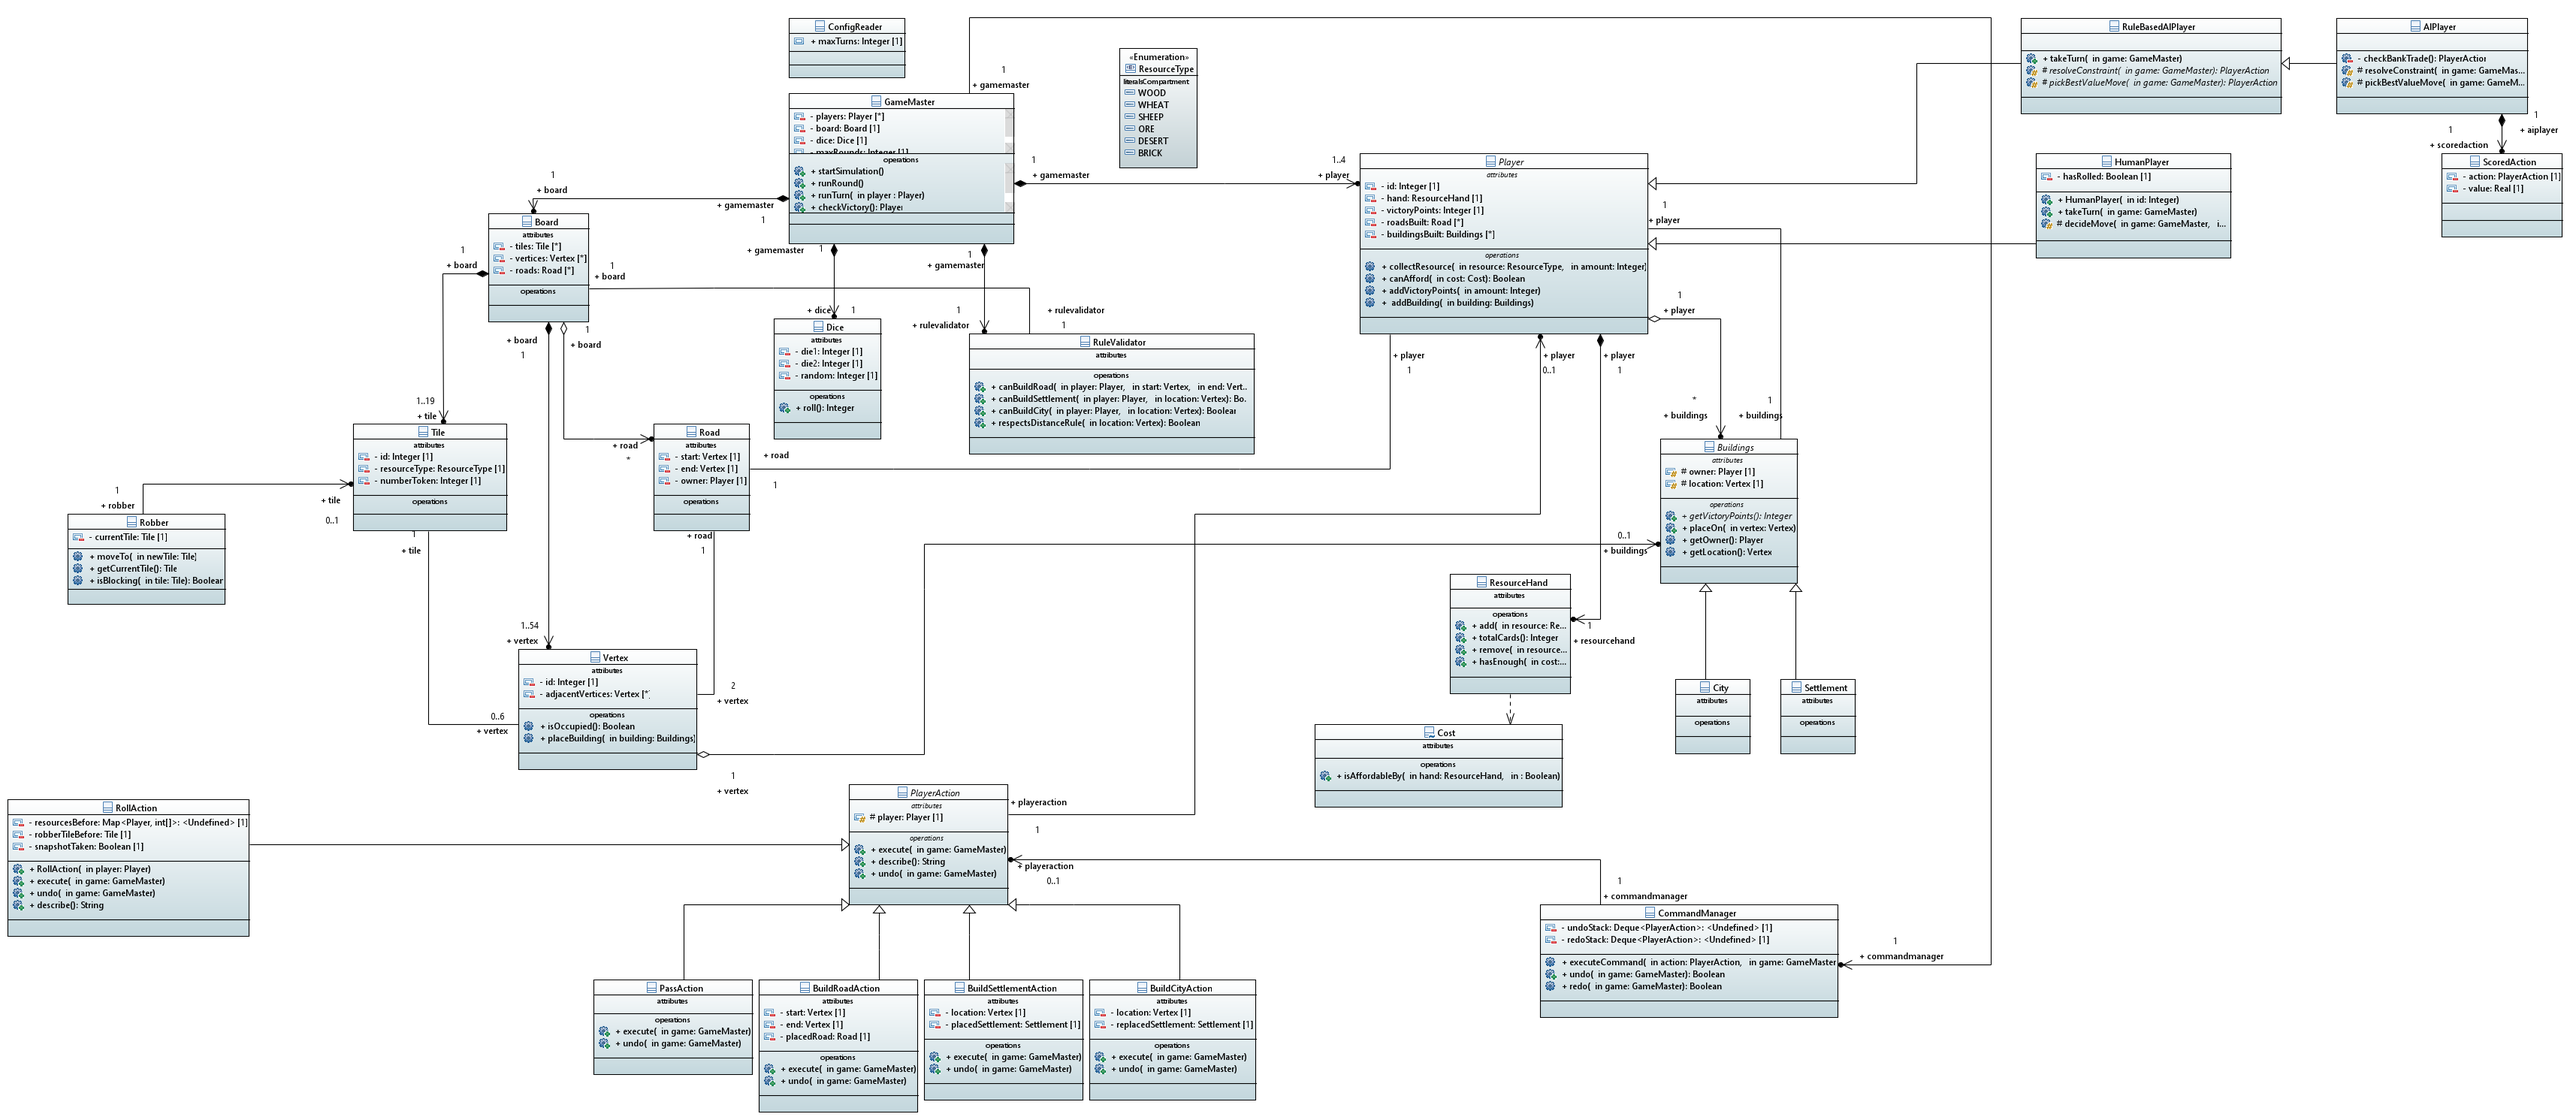
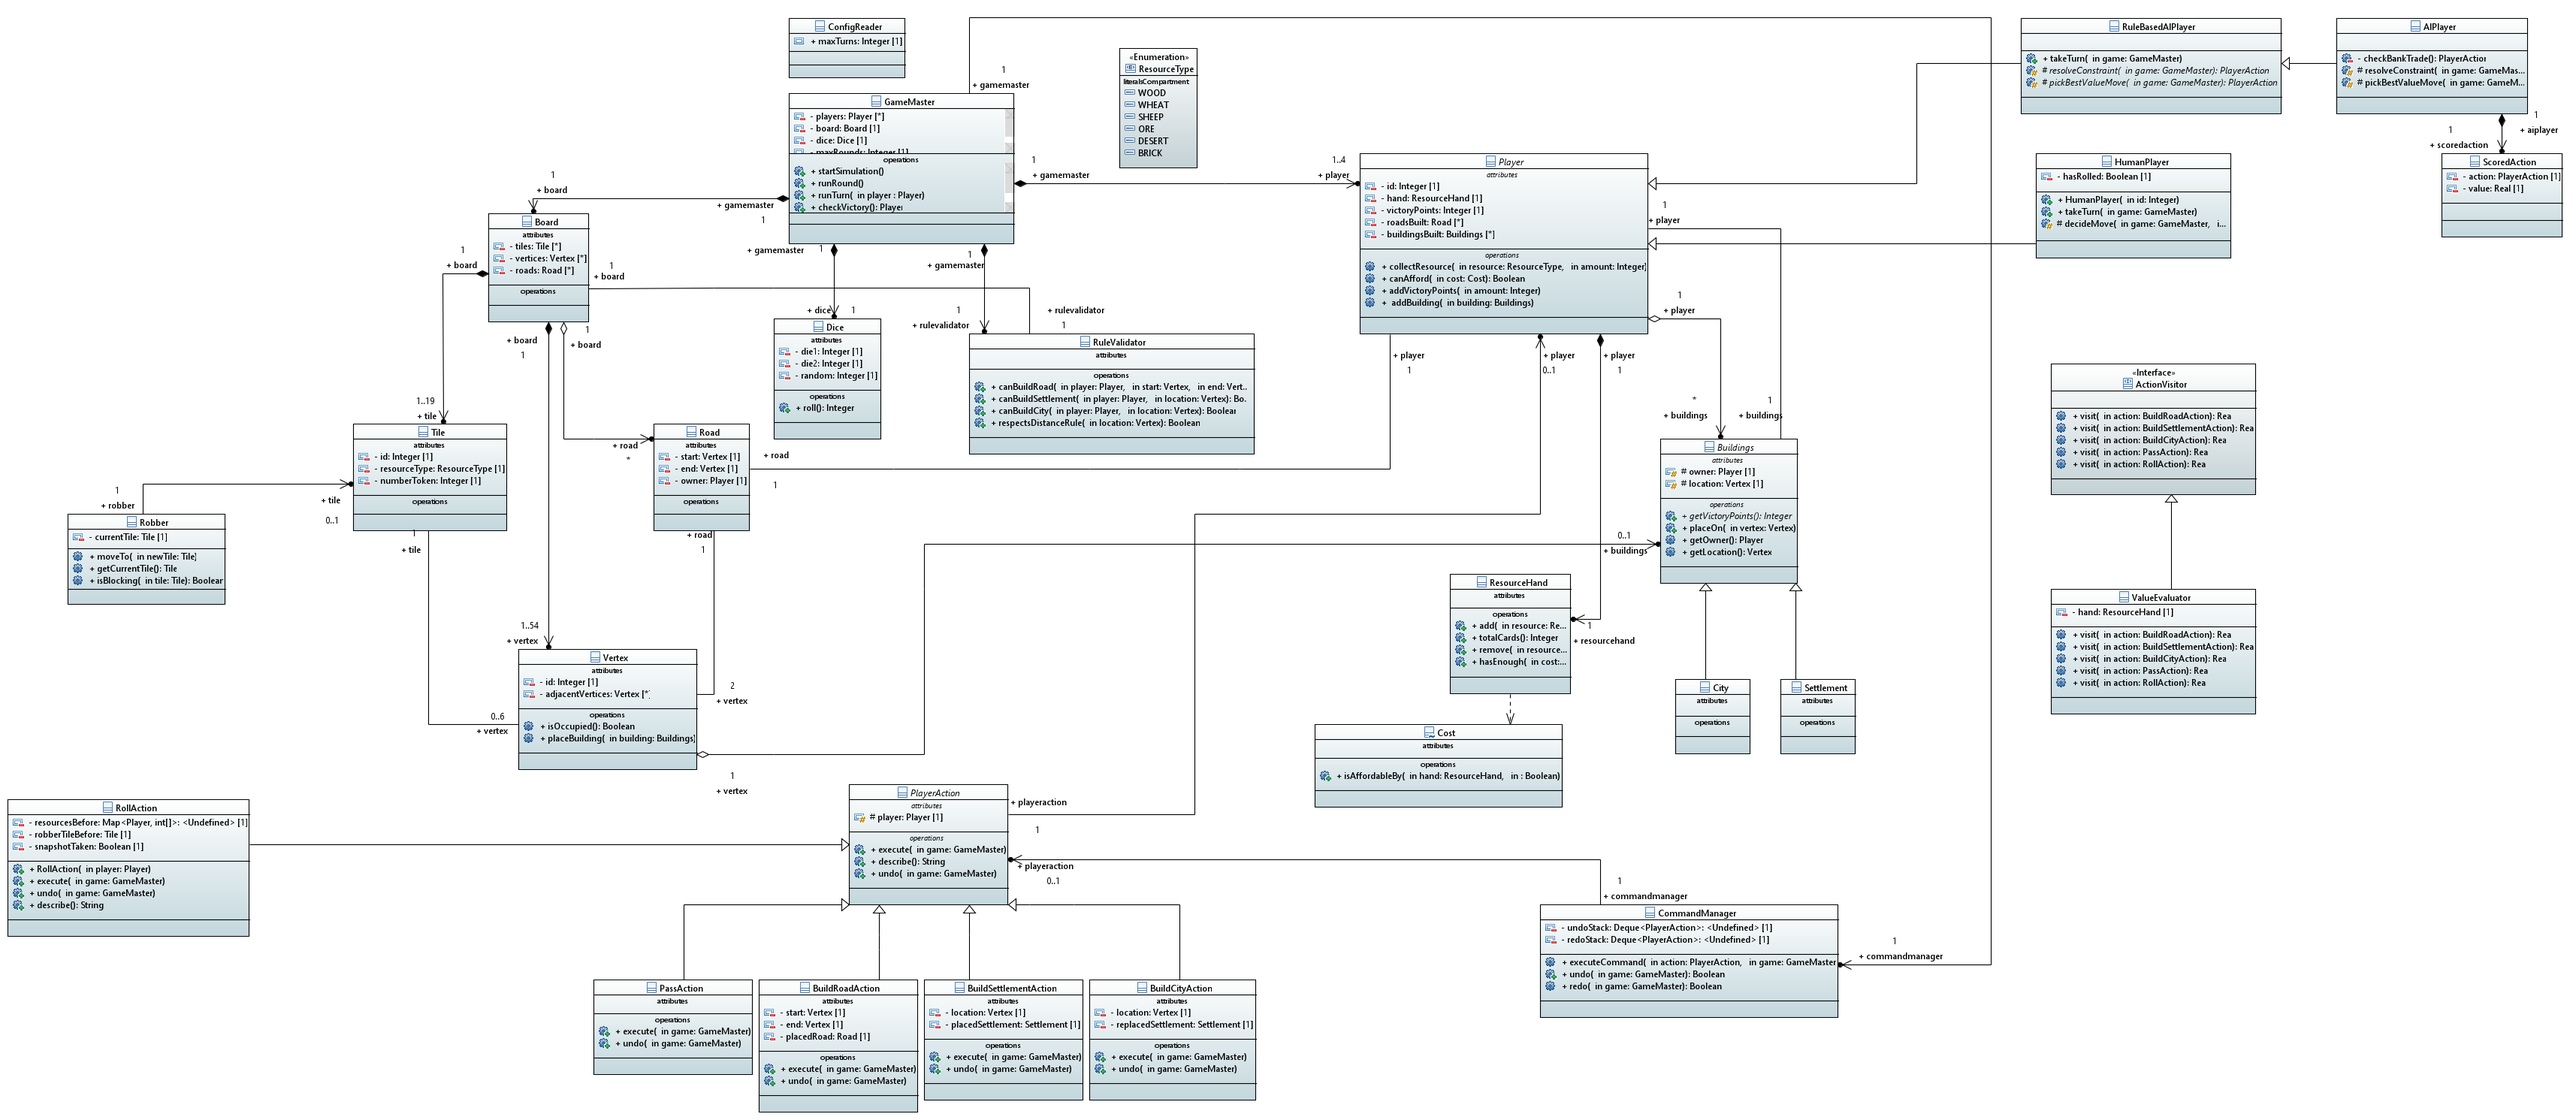
Updated UML for Task 3 (closes #61)(closes #52)

Changed region(s): [[0.7801, 0.3394, 0.8737, 0.4628], [0.7801, 0.5245, 0.8737, 0.6479]]

diff --git a/Catan-Code/src-gen/CatanSimulatorDomainModel/catanUML/ValueEvaluator.java b/Catan-Code/src-gen/CatanSimulatorDomainModel/catanUML/ValueEvaluator.java
@@ -1,0 +1,63 @@
+// --------------------------------------------------------
+// Code generated by Papyrus Java
+// --------------------------------------------------------
+
+package CatanSimulatorDomainModel.catanUML;
+
+/************************************************************/
+/**
+ * 
+ */
+public class ValueEvaluator extends ActionVisitor {
+	/**
+	 * 
+	 */
+	private ResourceHand hand;
+
+	/**
+	 * 
+	 * @param hand 
+	 */
+	public void ValueEvaluator(ResourceHand hand) {
+	}
+
+	/**
+	 * 
+	 * @return 
+	 * @param action 
+	 */
+	public float visit(BuildRoadAction action) {
+	}
+
+	/**
+	 * 
+	 * @return 
+	 * @param action 
+	 */
+	public float visit(BuildSettlementAction action) {
+	}
+
+	/**
+	 * 
+	 * @return 
+	 * @param action 
+	 */
+	public float visit(BuildCityAction action) {
+	}
+
+	/**
+	 * 
+	 * @return 
+	 * @param action 
+	 */
+	public float visit(PassAction action) {
+	}
+
+	/**
+	 * 
+	 * @return 
+	 * @param action 
+	 */
+	public float visit(RollAction action) {
+	}
+}

diff --git a/Catan-Code/src-gen/CatanSimulatorDomainModel/catanUML/ActionVisitor.java b/Catan-Code/src-gen/CatanSimulatorDomainModel/catanUML/ActionVisitor.java
@@ -1,0 +1,46 @@
+// --------------------------------------------------------
+// Code generated by Papyrus Java
+// --------------------------------------------------------
+
+package CatanSimulatorDomainModel.catanUML;
+
+/************************************************************/
+/**
+ * 
+ */
+public interface ActionVisitor {
+	/**
+	 * 
+	 * @return 
+	 * @param action 
+	 */
+	public float visit(BuildRoadAction action);
+
+	/**
+	 * 
+	 * @return 
+	 * @param action 
+	 */
+	public float visit(BuildSettlementAction action);
+
+	/**
+	 * 
+	 * @return 
+	 * @param action 
+	 */
+	public float visit(BuildCityAction action);
+
+	/**
+	 * 
+	 * @return 
+	 * @param action 
+	 */
+	public float visit(PassAction action);
+
+	/**
+	 * 
+	 * @return 
+	 * @param action 
+	 */
+	public float visit(RollAction action);
+}
